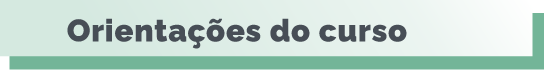
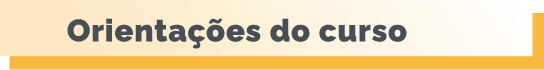
Atualiza identidade visual

diff --git a/src/tomada-de-opiniao.html b/src/tomada-de-opiniao.html
@@ -5,7 +5,7 @@
   <meta charset="UTF-8">
   <meta name="viewport" content="width=device-width, initial-scale=1.0">
   <title>
-    Saúde do Homem - Intercorrências na saúde sexual e reprodutiva do homem
+    Saúde do Homem - Prevenção ao suicídio
   </title>
 
   <!-- Style sheets -->
@@ -89,27 +89,27 @@
     <button onclick="navigate('back')"><img src="img/nav/buttonBack.png" alt="Voltar"></button>
     <div>
       <a href="sobre-o-curso.html">
-        <img src="img/nav/intercorrencias_sobreCursoColor.png" alt="Sobre o curso">
+        <img src="img/nav/SPrev_buttonSobreCursoC.png" alt="Sobre o curso">
       </a>
       <div class="line"></div>
       <a href="desafio.html">
-        <img src="img/nav/intercorrencias_desafioColor.png" alt="Desafio">
+        <img src="img/nav/SPrev_buttonDesafioC.png" alt="Desafio">
       </a>
       <div class="line"></div>
       <a href="unidade-1.html">
-        <img src="img/nav/intercorrencias_interagindoColor.png" alt="Unidade 1">
+        <img src="img/nav/SPrev_buttonInteragindoC.png" alt="Unidade 1">
       </a>
       <div class="line"></div>
       <a href="reconhecendo-a-realidade.html">
-        <img src="img/nav/intercorrencias_reconhecendoRealidadeColor.png" alt="Reconhecendo a realidade">
+        <img src="img/nav/SPrev_buttonReconhecendoRC.png" alt="Reconhecendo a realidade">
       </a>
       <div class="line"></div>
       <a href="questoes-avaliativas.html">
-        <img src="img/nav/intercorrencias_questoesAvalColor.png" alt="Questões avaliativas">
+        <img src="img/nav/SPrev_buttonQuestoesAvalC.png" alt="Questões avaliativas">
       </a>
       <div class="line"></div>
       <a href="tomada-de-opiniao.html">
-        <img src="img/nav/SaudeTrab_tomadaOpiniaoWhiteColor.png" alt="Tomada de opinião">
+        <img src="img/nav/SPrev_buttonTomadaOp.png" alt="Tomada de opinião">
       </a>
     </div>
     <button onclick="navigate('next')"><img src="img/nav/buttonFor.png" alt="Avançar"></button>

diff --git a/src/css/style.css b/src/css/style.css
@@ -3491,12 +3491,12 @@ article h1 {
 }
 
 .styled-list strong {
-  color: hsl(154, 30%, 63%);
+  color: hsl(40, 92%, 65%);
   font-weight: 700;
 }
 
 .styled-link {
-  color: hsl(154, 30%, 63%);
+  color: hsl(40, 92%, 65%);
   font-weight: 700;
   text-decoration: none;
   cursor: pointer;
@@ -3699,7 +3699,7 @@ article h1 {
   margin: 0;
 }
 .callout a {
-  color: hsl(154, 30%, 63%);
+  color: hsl(40, 92%, 65%);
 }
 .callout a:hover {
   text-decoration: underline;
@@ -3714,13 +3714,13 @@ article h1 {
   font-weight: normal;
   padding: 1rem;
   border-radius: 4px;
-  background-color: hsl(154, 30%, 83%);
+  background-color: hsl(40, 92%, 85%);
   box-shadow: 0px 0px 10px rgba(136, 136, 136, 0.3333333333);
 }
 
 .popover-button {
   font-weight: bold;
-  color: hsl(154, 30%, 48%);
+  color: hsl(40, 92%, 40%);
   cursor: pointer;
 }
 
@@ -3733,12 +3733,12 @@ article h1 {
   gap: 1rem;
   padding: 0.5rem 3rem;
   border-radius: 0.5rem;
-  border-left: 3px solid hsl(154, 30%, 83%);
+  border-left: 3px solid hsl(40, 92%, 85%);
   font-style: italic;
 }
 .quote > i {
   font-size: 2rem;
-  color: hsl(154, 30%, 73%);
+  color: hsl(40, 92%, 75%);
 }
 .quote > i:first-child {
   align-self: flex-start;
@@ -3810,7 +3810,7 @@ article h1 {
 .credit-container {
   margin: 1rem 0;
   padding: 2rem;
-  background-color: hsl(154, 30%, 98%);
+  background-color: hsl(40, 92%, 95%);
   border-radius: 12px;
 }
 .credit-container .credit-title {
@@ -3837,7 +3837,7 @@ article h1 {
 .highlight {
   padding: 1rem;
   padding-top: 0;
-  border: 1px dashed hsl(154, 30%, 63%);
+  border: 1px dashed hsl(40, 92%, 65%);
   border-radius: 16px;
 }
 .highlight h2 {
@@ -3859,7 +3859,7 @@ article h1 {
   position: absolute;
   height: 40px;
   width: 70%;
-  background-color: hsl(154, 30%, 93%);
+  background-color: hsl(40, 92%, 90%);
   border-top-right-radius: 20px;
   border-bottom-right-radius: 20px;
 }

diff --git a/src/questoes-avaliativas.html b/src/questoes-avaliativas.html
@@ -5,7 +5,7 @@
   <meta charset="UTF-8">
   <meta name="viewport" content="width=device-width, initial-scale=1.0">
   <title>
-    Saúde do Homem - Intercorrências na saúde sexual e reprodutiva do homem
+    Saúde do Homem - Prevenção ao suicídio
   </title>
 
   <!-- Style sheets -->
@@ -89,23 +89,23 @@
     <button onclick="navigate('back')"><img src="img/nav/buttonBack.png" alt="Voltar"></button>
     <div>
       <a href="sobre-o-curso.html">
-        <img src="img/nav/intercorrencias_sobreCursoColor.png" alt="Sobre o curso">
+        <img src="img/nav/SPrev_buttonSobreCursoC.png" alt="Sobre o curso">
       </a>
       <div class="line"></div>
       <a href="desafio.html">
-        <img src="img/nav/intercorrencias_desafioColor.png" alt="Desafio">
+        <img src="img/nav/SPrev_buttonDesafioC.png" alt="Desafio">
       </a>
       <div class="line"></div>
       <a href="unidade-1.html">
-        <img src="img/nav/intercorrencias_interagindoColor.png" alt="Unidade 1">
+        <img src="img/nav/SPrev_buttonInteragindoC.png" alt="Unidade 1">
       </a>
       <div class="line"></div>
       <a href="reconhecendo-a-realidade.html">
-        <img src="img/nav/intercorrencias_reconhecendoRealidadeColor.png" alt="Reconhecendo a realidade">
+        <img src="img/nav/SPrev_buttonReconhecendoRC.png" alt="Reconhecendo a realidade">
       </a>
       <div class="line"></div>
       <a href="questoes-avaliativas.html">
-        <img src="img/nav/intercorrencias_questoesAvalColor.png" alt="Questões avaliativas">
+        <img src="img/nav/SPrev_buttonQuestoesAvalC.png" alt="Questões avaliativas">
       </a>
       <div class="line"></div>
       <a href="tomada-de-opiniao.html">

diff --git a/src/unidade-3.html b/src/unidade-3.html
@@ -5,7 +5,7 @@
   <meta charset="UTF-8" />
   <meta name="viewport" content="width=device-width, initial-scale=1.0" />
   <title>
-    Saúde do Homem - Intercorrências na saúde sexual e reprodutiva do homem
+    Saúde do Homem - Prevenção ao suicídio
   </title>
 
   <!-- Style sheets -->
@@ -22,9 +22,9 @@
   <div class="container-fluid header">
     <div class="container">
       <!-- Left side -->
-      <div class="left-bar d-none d-md-flex">
+      <div class="left-bar d-none d-md-block">
         <div class="title">
-          <span>Intercorrências na saúde</span><br />sexual e reprodutiva do homem
+          <span>Prevenção</span><br>ao suicídio
         </div>
       </div>
 
@@ -566,15 +566,15 @@
     </button>
     <div>
       <a href="sobre-o-curso.html">
-        <img src="img/nav/intercorrencias_sobreCursoColor.png" alt="Sobre o curso" />
+        <img src="img/nav/SPrev_buttonSobreCursoC.png" alt="Sobre o curso" />
       </a>
       <div class="line"></div>
       <a href="desafio.html">
-        <img src="img/nav/intercorrencias_desafioColor.png" alt="Desafio" />
+        <img src="img/nav/SPrev_buttonDesafioC.png" alt="Desafio" />
       </a>
       <div class="line"></div>
       <a href="unidade-1.html">
-        <img src="img/nav/intercorrencias_interagindoColor.png" alt="Unidade 1" />
+        <img src="img/nav/SPrev_buttonInteragindoC.png" alt="Unidade 1" />
       </a>
       <div class="line"></div>
       <a href="reconhecendo-a-realidade.html">

diff --git a/src/reconhecendo-a-realidade.html b/src/reconhecendo-a-realidade.html
@@ -5,7 +5,7 @@
   <meta charset="UTF-8">
   <meta name="viewport" content="width=device-width, initial-scale=1.0">
   <title>
-    Saúde do Homem - Intercorrências na saúde sexual e reprodutiva do homem
+    Saúde do Homem - Prevenção ao suicídio
   </title>
 
   <!-- Style sheets -->
@@ -109,19 +109,19 @@
     <button onclick="navigate('back')"><img src="img/nav/buttonBack.png" alt="Voltar"></button>
     <div>
       <a href="sobre-o-curso.html">
-        <img src="img/nav/intercorrencias_sobreCursoColor.png" alt="Sobre o curso">
+        <img src="img/nav/SPrev_buttonSobreCursoC.png" alt="Sobre o curso">
       </a>
       <div class="line"></div>
       <a href="desafio.html">
-        <img src="img/nav/intercorrencias_desafioColor.png" alt="Desafio">
+        <img src="img/nav/SPrev_buttonDesafioC.png" alt="Desafio">
       </a>
       <div class="line"></div>
       <a href="unidade-1.html">
-        <img src="img/nav/intercorrencias_interagindoColor.png" alt="Unidade 1">
+        <img src="img/nav/SPrev_buttonInteragindoC.png" alt="Unidade 1">
       </a>
       <div class="line"></div>
       <a href="reconhecendo-a-realidade.html">
-        <img src="img/nav/intercorrencias_reconhecendoRealidadeColor.png" alt="Reconhecendo a realidade">
+        <img src="img/nav/SPrev_buttonReconhecendoRC.png" alt="Reconhecendo a realidade">
       </a>
       <div class="line"></div>
       <a href="questoes-avaliativas.html">

diff --git a/src/unidade-1.html b/src/unidade-1.html
@@ -5,7 +5,7 @@
   <meta charset="UTF-8">
   <meta name="viewport" content="width=device-width, initial-scale=1.0">
   <title>
-    Saúde do Homem - Intercorrências na saúde sexual e reprodutiva do homem
+    Saúde do Homem - Prevenção ao suicídio
   </title>
 
   <!-- Style sheets -->
@@ -350,15 +350,15 @@
     <button onclick="navigate('back')"><img src="img/nav/buttonBack.png" alt="Voltar"></button>
     <div>
       <a href="sobre-o-curso.html">
-        <img src="img/nav/intercorrencias_sobreCursoColor.png" alt="Sobre o curso">
+        <img src="img/nav/SPrev_buttonSobreCursoC.png" alt="Sobre o curso">
       </a>
       <div class="line"></div>
       <a href="desafio.html">
-        <img src="img/nav/intercorrencias_desafioColor.png" alt="Desafio">
+        <img src="img/nav/SPrev_buttonDesafioC.png" alt="Desafio">
       </a>
       <div class="line"></div>
       <a href="unidade-1.html">
-        <img src="img/nav/intercorrencias_interagindoColor.png" alt="Unidade 1">
+        <img src="img/nav/SPrev_buttonInteragindoC.png" alt="Unidade 1">
       </a>
       <div class="line"></div>
       <a href="reconhecendo-a-realidade.html">

diff --git a/src/unidade-2.html b/src/unidade-2.html
@@ -5,7 +5,7 @@
   <meta charset="UTF-8">
   <meta name="viewport" content="width=device-width, initial-scale=1.0">
   <title>
-    Saúde do Homem - Intercorrências na saúde sexual e reprodutiva do homem
+    Saúde do Homem - Prevenção ao suicídio
   </title>
 
   <!-- Style sheets -->
@@ -317,15 +317,15 @@
     <button onclick="navigate('back')"><img src="img/nav/buttonBack.png" alt="Voltar"></button>
     <div>
       <a href="sobre-o-curso.html">
-        <img src="img/nav/intercorrencias_sobreCursoColor.png" alt="Sobre o curso">
+        <img src="img/nav/SPrev_buttonSobreCursoC.png" alt="Sobre o curso">
       </a>
       <div class="line"></div>
       <a href="desafio.html">
-        <img src="img/nav/intercorrencias_desafioColor.png" alt="Desafio">
+        <img src="img/nav/SPrev_buttonDesafioC.png" alt="Desafio">
       </a>
       <div class="line"></div>
       <a href="unidade-1.html">
-        <img src="img/nav/intercorrencias_interagindoColor.png" alt="Unidade 1">
+        <img src="img/nav/SPrev_buttonInteragindoC.png" alt="Unidade 1">
       </a>
       <div class="line"></div>
       <a href="reconhecendo-a-realidade.html">

diff --git a/src/desafio.html b/src/desafio.html
@@ -5,7 +5,7 @@
   <meta charset="UTF-8">
   <meta name="viewport" content="width=device-width, initial-scale=1.0">
   <title>
-    Saúde do Homem - Intercorrências na saúde sexual e reprodutiva do homem
+    Saúde do Homem - Prevenção ao suicídio
   </title>
 
   <!-- Style sheets -->
@@ -101,11 +101,11 @@
     <button onclick="navigate('back')"><img src="img/nav/buttonBack.png" alt="Voltar"></button>
     <div>
       <a href="sobre-o-curso.html">
-        <img src="img/nav/intercorrencias_sobreCursoColor.png" alt="Sobre o curso">
+        <img src="img/nav/SPrev_buttonSobreCursoC.png" alt="Sobre o curso">
       </a>
       <div class="line"></div>
       <a href="desafio.html">
-        <img src="img/nav/intercorrencias_desafioColor.png" alt="Desafio">
+        <img src="img/nav/SPrev_buttonDesafioC.png" alt="Desafio">
       </a>
       <div class="line"></div>
       <a href="unidade-1.html">

diff --git a/src/css/style.scss b/src/css/style.scss
@@ -2,14 +2,14 @@
 
 $capa: url("../img/capa.png");
 
-$main-color: hsl(154, 30%, 63%);
-$main-color--light: hsl(154, 30%, 73%);
-$main-color--lighter: hsl(154, 30%, 83%);
-$main-color--lightest: hsl(154, 30%, 93%);
-$main-color--hyperlight: hsl(154, 30%, 98%);
-$main-color--dark: hsl(154, 30%, 53%);
-$main-color--darker: hsl(154, 30%, 48%);
-$main-color--darkest: hsl(154, 30%, 43%);
+$main-color: hsl(40, 92%, 65%);
+$main-color--light: hsl(40, 92%, 75%);
+$main-color--lighter: hsl(40, 92%, 85%);
+$main-color--lightest: hsl(40, 92%, 90%);
+$main-color--hyperlight: hsl(40, 92%, 95%);
+$main-color--dark: hsl(40, 92%, 45%);
+$main-color--darker: hsl(40, 92%, 40%);
+$main-color--darkest: hsl(40, 92%, 35%);
 
 $secondary-color: hsl(210, 37%, 47%);
 $sumario-title-color: rgb(65, 94, 86);

diff --git a/src/sobre-o-curso.html b/src/sobre-o-curso.html
@@ -5,7 +5,7 @@
   <meta charset="UTF-8">
   <meta name="viewport" content="width=device-width, initial-scale=1.0">
   <title>
-    Saúde do Homem - Intercorrências na saúde sexual e reprodutiva do homem
+    Saúde do Homem - Prevenção ao suicídio
   </title>
 
   <!-- Style sheets -->
@@ -108,7 +108,7 @@
     <button onclick="navigate('back')"><img src="img/nav/buttonBack.png" alt="Voltar"></button>
     <div>
       <a href="sobre-o-curso.html">
-        <img src="img/nav/intercorrencias_sobreCursoColor.png" alt="Sobre o curso">
+        <img src="img/nav/SPrev_buttonSobreCursoC.png" alt="Sobre o curso">
       </a>
       <div class="line"></div>
       <a href="desafio.html">
